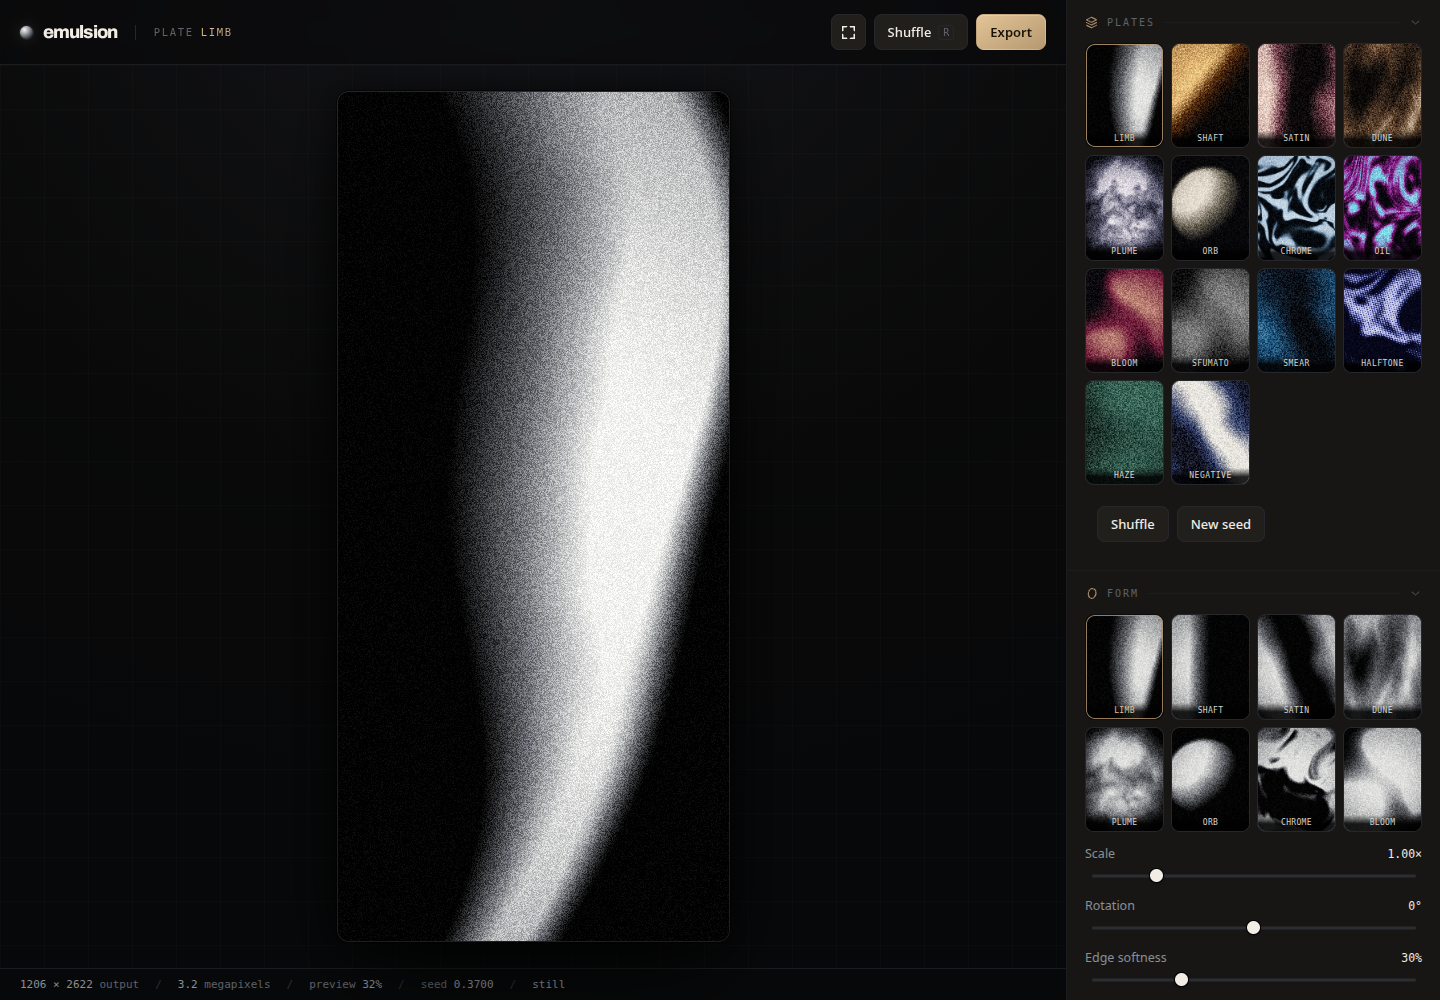
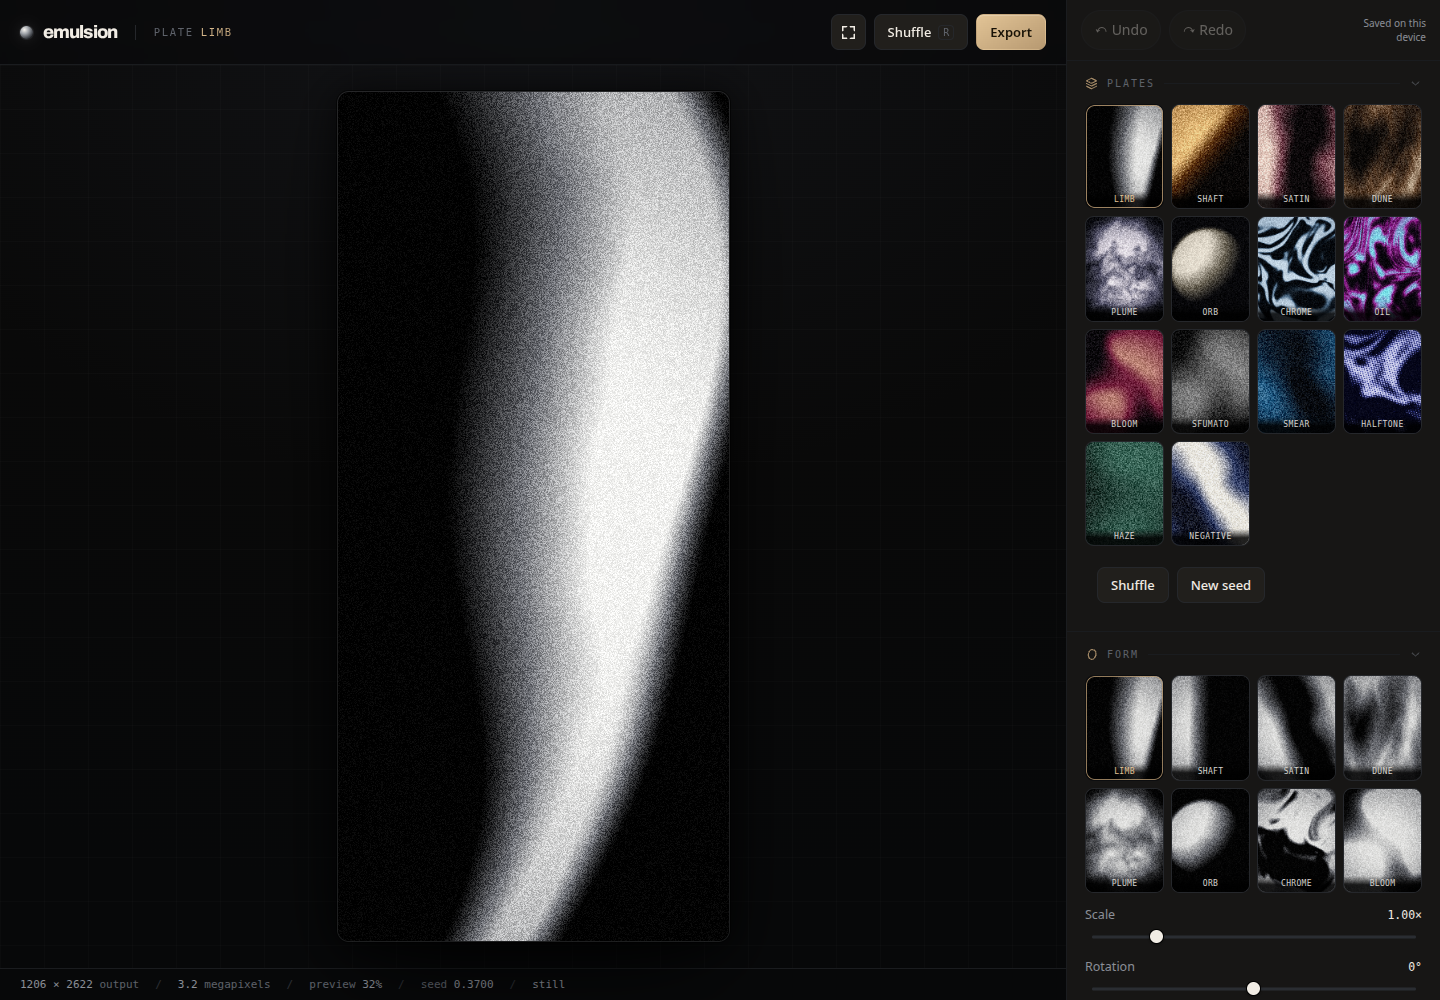
Keep undo available while scrolling the desktop controls
Pin the desktop history controls above the panel content and refresh the
reference capture after the layout check. Record browser validation and its
physical-device limits so future changes have a clear starting point.

Changed region(s): [[0.75, 0.0, 1.0, 0.992]]

diff --git a/dist/app/index.html b/dist/app/index.html
@@ -627,6 +627,7 @@ body{font-family:system-ui,-apple-system,"Segoe UI",sans-serif}
 #result{width:min(420px,calc(100% - 24px));max-height:85dvh;overflow-y:auto;background:var(--panel);color:var(--text);border:1px solid #ffffff26;border-radius:26px;padding:24px;box-shadow:0 24px 80px #0009}
 #result::backdrop{background:#0009;backdrop-filter:blur(8px)}#result h2{font-size:18px;margin:0 0 16px}#result p{color:var(--mute);font-size:13px;line-height:1.6}#resultGrid{display:grid;grid-template-columns:repeat(3,1fr);gap:8px}#resultGrid button{padding:0;border:0;border-radius:10px;overflow:hidden;background:none}#resultGrid img{display:block;width:100%;height:125px;object-fit:cover}
 @media(max-width:980px){.plate-picker{display:flex;flex:1;min-height:0;flex-direction:column}.plate-picker .peekplates{padding-top:6px}.plate-picker .peekplates button{max-height:110px}.plate-tools .btn{min-height:36px;padding:6px 12px;font-size:12px}.sec[data-sec="Plates"]{display:none}}
+@media(min-width:981px){.rail{display:flex;flex-direction:column}.sheetbody{flex:0 0 auto}.history-controls{order:-1;position:sticky;top:0;z-index:4;background:var(--panel)}}
 </style>
 </head>
 

diff --git a/apps/web/src/styles.css b/apps/web/src/styles.css
@@ -597,3 +597,4 @@ body{font-family:system-ui,-apple-system,"Segoe UI",sans-serif}
 #result{width:min(420px,calc(100% - 24px));max-height:85dvh;overflow-y:auto;background:var(--panel);color:var(--text);border:1px solid #ffffff26;border-radius:26px;padding:24px;box-shadow:0 24px 80px #0009}
 #result::backdrop{background:#0009;backdrop-filter:blur(8px)}#result h2{font-size:18px;margin:0 0 16px}#result p{color:var(--mute);font-size:13px;line-height:1.6}#resultGrid{display:grid;grid-template-columns:repeat(3,1fr);gap:8px}#resultGrid button{padding:0;border:0;border-radius:10px;overflow:hidden;background:none}#resultGrid img{display:block;width:100%;height:125px;object-fit:cover}
 @media(max-width:980px){.plate-picker{display:flex;flex:1;min-height:0;flex-direction:column}.plate-picker .peekplates{padding-top:6px}.plate-picker .peekplates button{max-height:110px}.plate-tools .btn{min-height:36px;padding:6px 12px;font-size:12px}.sec[data-sec="Plates"]{display:none}}
+@media(min-width:981px){.rail{display:flex;flex-direction:column}.sheetbody{flex:0 0 auto}.history-controls{order:-1;position:sticky;top:0;z-index:4;background:var(--panel)}}

diff --git a/dist/app/sw.js b/dist/app/sw.js
@@ -1,4 +1,4 @@
-const CACHE="emulsion-app-fee165a245db2734";
+const CACHE="emulsion-app-1234918010e45b60";
 const SHELL=["/app/","/app/index.html","/manifest.webmanifest","/icon.svg","/icon-192.png","/icon-512.png","/apple-touch-icon.png","/fonts/archivo.woff2"];
 self.addEventListener("install",event=>{
   event.waitUntil(caches.open(CACHE).then(cache=>cache.addAll(SHELL)));

diff --git a/docs/validation.md b/docs/validation.md
@@ -1,0 +1,32 @@
+# Validation, 13 November 2026
+
+The website build and Node checks pass. A clean rebuild reproduces all committed
+output. Browser checks used Chromium with a software WebGL2 renderer on Linux;
+mobile screens were emulated. Physical Android installation has not been tested.
+
+Verified in the built website:
+
+- Eight editor panels and all fourteen plates render.
+- Plate selection and edits support undo/redo. The look, panel and history
+  survive a reload. Changing the seed refreshes the thumbnail images.
+- Real PNG, WebP and JPEG downloads decode at the requested dimensions. A set
+  downloads as a valid ZIP with four independently rendered variations; a result
+  preview can be adopted as the current seed.
+- The studio reloads offline, restores its session and permits new edits.
+  Chromium reports no manifest or installation errors. The studio makes no
+  external resource requests and throws no JavaScript exceptions in these flows.
+- Old root shared-look links redirect to the studio and preserve the full seed.
+  Manual gallery selection and reduced-motion behavior work on the landing page.
+- The picture stays above the controls, with category tabs visible, at 320 × 568,
+  412 × 915 and 915 × 412. Collapsing the sheet retains the tabs. Tapping the
+  picture hides and restores the interface. Desktop undo controls stay at the top.
+- A browser without WebGL2 gets an explanation and disabled editor controls.
+
+The 32 native app source, project and resource files match the original iOS
+1.1 build 17 checkout byte for byte. The iOS README changes only its web link.
+No new native binary was built for this website and repository update.
+
+Hosting verification is separate: production uses the existing Cloudflare Pages
+Git integration, root build command `node build.mjs`, and `dist` output. Live
+routes, response headers, analytics removal and GitHub CI must be checked after
+publication approval and deployment.
